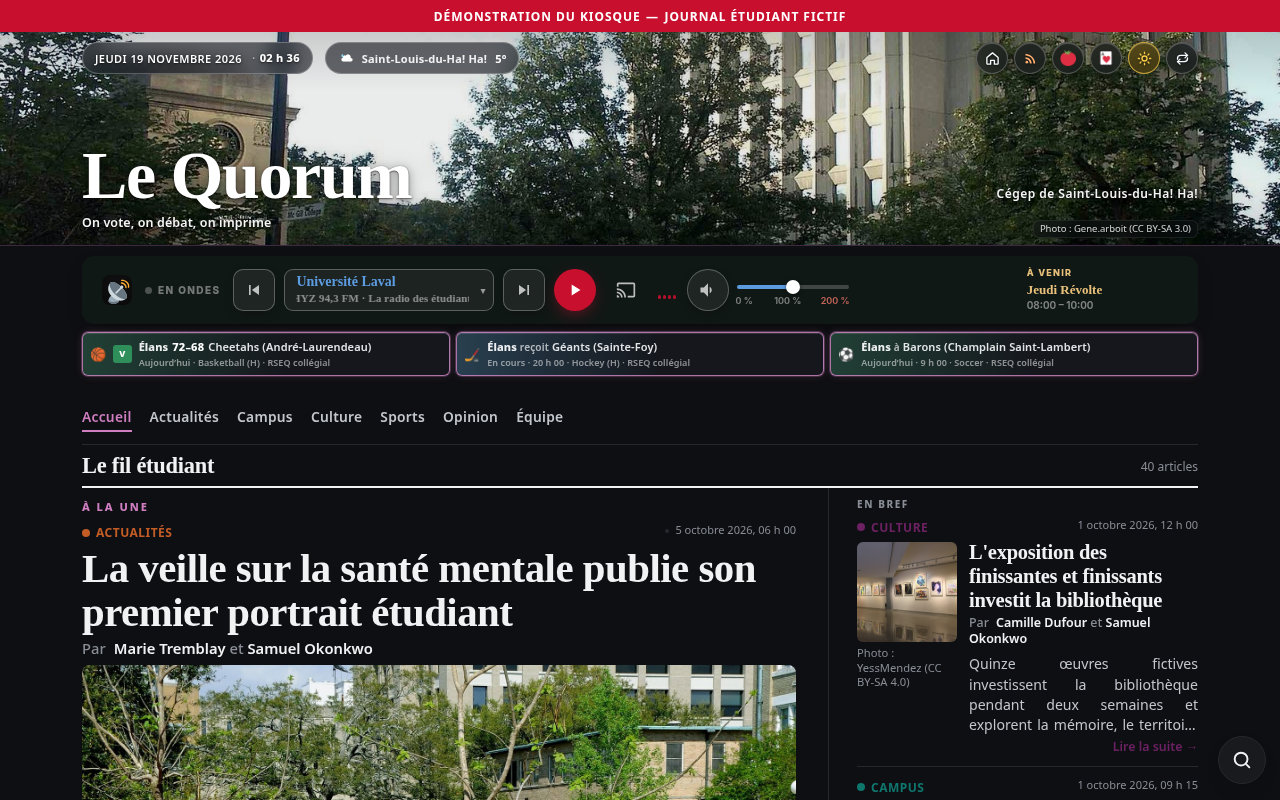
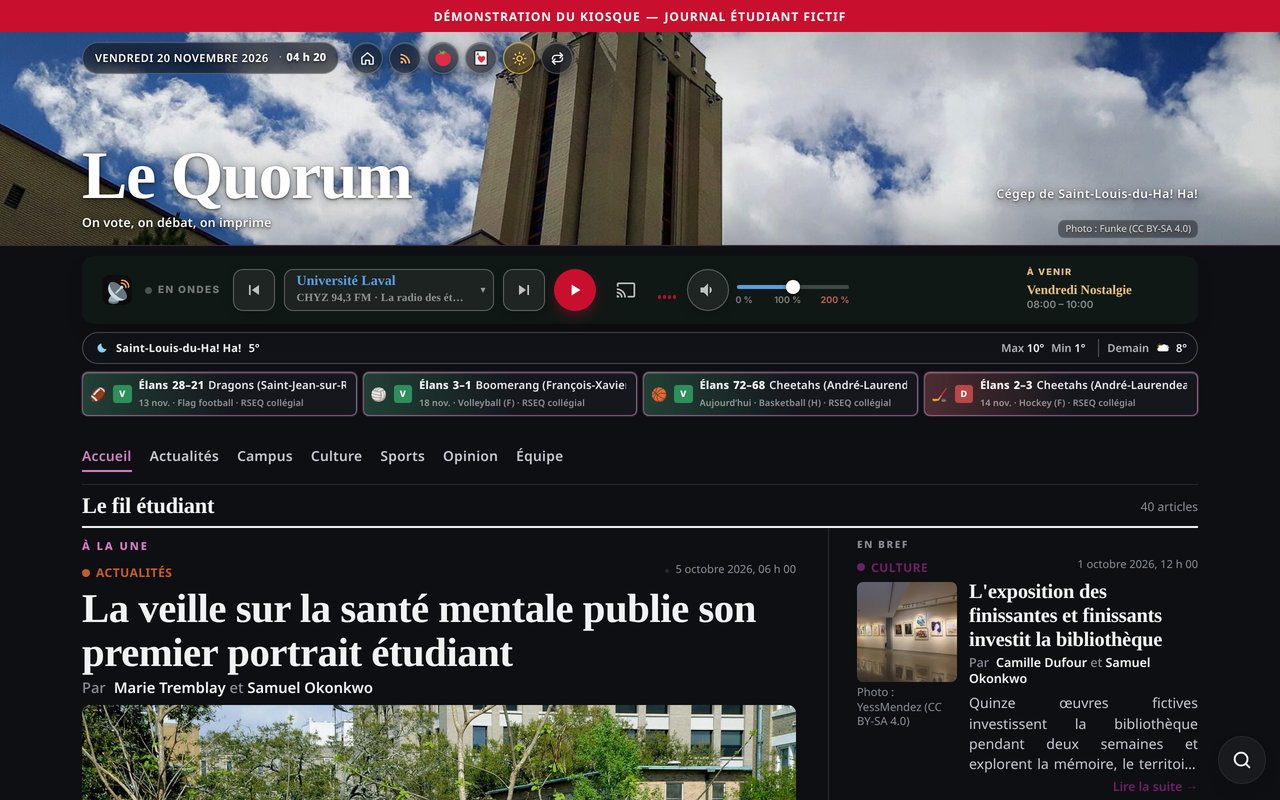
Actualise les captures des pages publiques sur v0.4.2
Les vues du Quorum montrent plusieurs photos de mât, le bouton de
rotation, la barre radio collante, le dock météo et les cartes sportives
décalées. L’espace de rédaction inclut le réglage du mât, avec l’ordre
aléatoire activé par défaut. Les dimensions des images sont mises à jour.

diff --git a/site/index.html b/site/index.html
@@ -81,7 +81,7 @@
       <div class="wrap">
         <p class="kicker">Le site Web public</p>
         <h2>Un journal, pas une page d’accueil générique.</h2>
-        <p class="intro">Sans logo, le nom du journal s’écrit en grand dans le mât, dans une police de titre. S’il y a un logo, le logo remplace le nom. Les articles portent toutes leurs signatures, avec le crédit et la licence de chaque photo.</p>
+        <p class="intro">Sans logo, le nom du journal s’écrit en grand dans le mât, dans une police de titre. S’il y a un logo, le logo remplace le nom. On peut choisir plusieurs photos de mât, affichées dans un ordre aléatoire ; un bouton les fait défiler. Les articles portent toutes leurs signatures, avec le crédit et la licence de chaque photo.</p>
         <div class="pair pair--mobile gallery">
           <figure class="shot">
             <img src="{{BASE_PATH}}/assets/captures/quorum-article-ordi.jpg" width="1280" height="800" alt="Page d’un article du Quorum, avec le mât, la barre radio et une colonne En bref." loading="lazy">
@@ -124,10 +124,14 @@
             <figcaption>La banque de photos : crédit obligatoire, licence affichée, réemploi dans tout le journal.</figcaption>
           </figure>
           <figure class="shot shot--tall">
-            <img src="{{BASE_PATH}}/assets/captures/equipe-roles.jpg" width="1280" height="1588" alt="Liste des comptes du Quorum : administrateur, autrice limitée à certaines rubriques, chef de pupitre et photographe, puis les signatures." loading="lazy">
+            <img src="{{BASE_PATH}}/assets/captures/equipe-roles.jpg" width="1280" height="1661" alt="Liste des comptes du Quorum : administrateur, autrice limitée à certaines rubriques, chef de pupitre et photographe, puis les signatures." loading="lazy">
             <figcaption>Les rôles : auteur, photographe, réviseur, chef de pupitre, éditeur, administrateur — avec restriction par rubrique au besoin.</figcaption>
           </figure>
         </div>
+        <figure class="shot" style="margin-top:1.25rem">
+          <img src="{{BASE_PATH}}/assets/captures/configuration-mat.jpg" width="1280" height="1682" alt="Réglage du mât illustré : plusieurs photos choisies dans la banque, option Ordre aléatoire activée par défaut, et aperçus ordinateur, tablette et téléphone." loading="lazy">
+          <figcaption>Le réglage du mât : plusieurs photos, et l’ordre aléatoire activé par défaut.</figcaption>
+        </figure>
         <p class="legal">La sauvegarde complète se télécharge en un fichier ZIP (articles, photos, équipe et réglages, sans les mots de passe). On peut la restaurer plus tard. Quand une version de la plateforme est publiée, la page Mise à jour la propose, en un clic. Pour en savoir plus sur le programme lui-même : <a href="https://azdak919.github.io/le-socle/">la page du Socle</a>.</p>
       </div>
     </section>

diff --git a/README.md b/README.md
@@ -45,7 +45,7 @@ Le détail, pour un étudiant, tient dans le [guide d’une page](https://azdak9
 
 **Sur le site Web public**
 
-- Le mât affiche le nom du journal en grand ; s’il y a un logo, le logo remplace le nom.
+- Le mât affiche le nom du journal en grand ; s’il y a un logo, le logo remplace le nom. On peut y choisir plusieurs photos, affichées dans un ordre aléatoire.
 - Rubriques, pages d’articles, pages des signatures, recherche dans la page, mode sombre.
 - Météo locale, résultats sportifs et barre radio, au choix. La radio est un module du [Radar](https://le-radar.ca), chargé depuis le-radar.ca.
 - Chaque article porte toutes ses signatures ; chaque photo porte son crédit et sa licence.
@@ -67,6 +67,10 @@ Le détail, pour un étudiant, tient dans le [guide d’une page](https://azdak9
 ![Banque de photos](site/assets/captures/banque-photos.jpg)
 
 <p align="center"><em>La banque de photos, avec crédit et licence.</em></p>
+
+![Réglage du mât illustré](site/assets/captures/configuration-mat.jpg)
+
+<p align="center"><em>Plusieurs photos de mât, et l’ordre aléatoire activé par défaut.</em></p>
 
 ---
 
